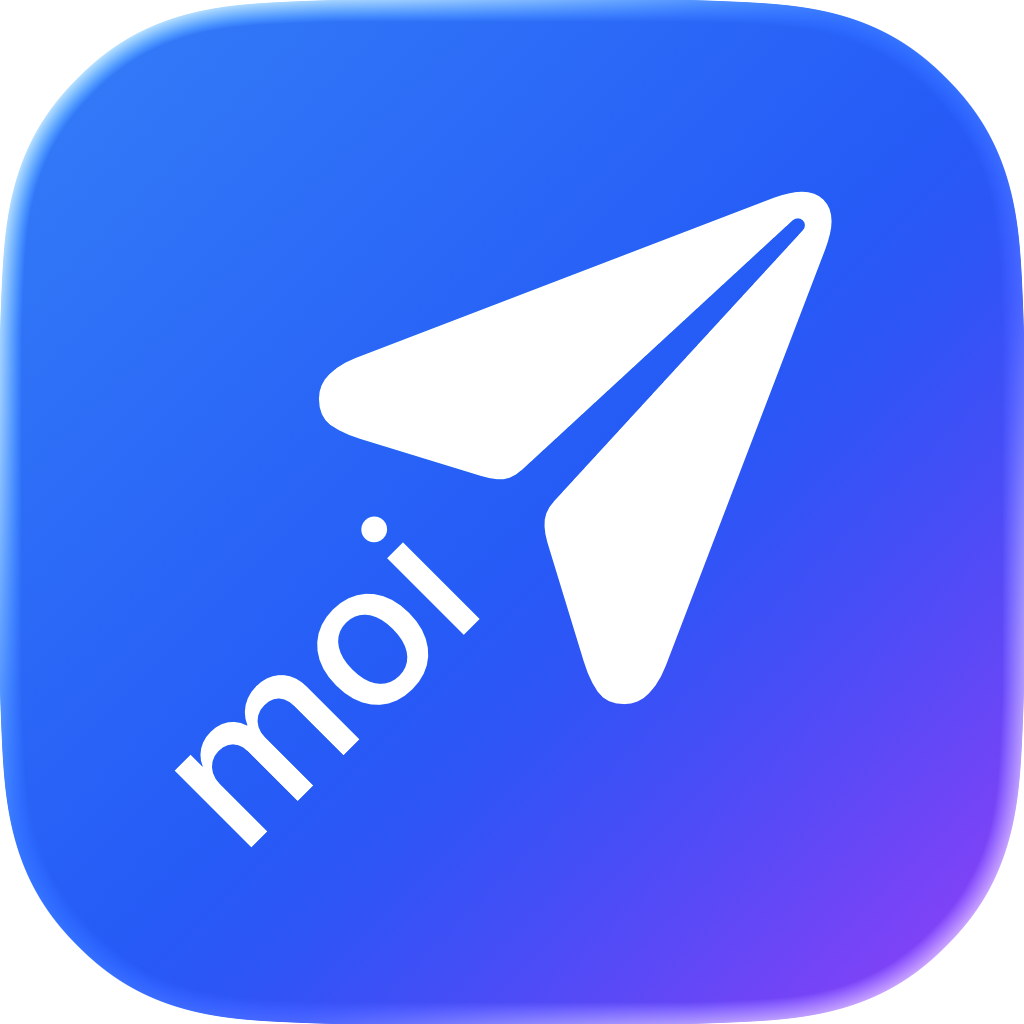
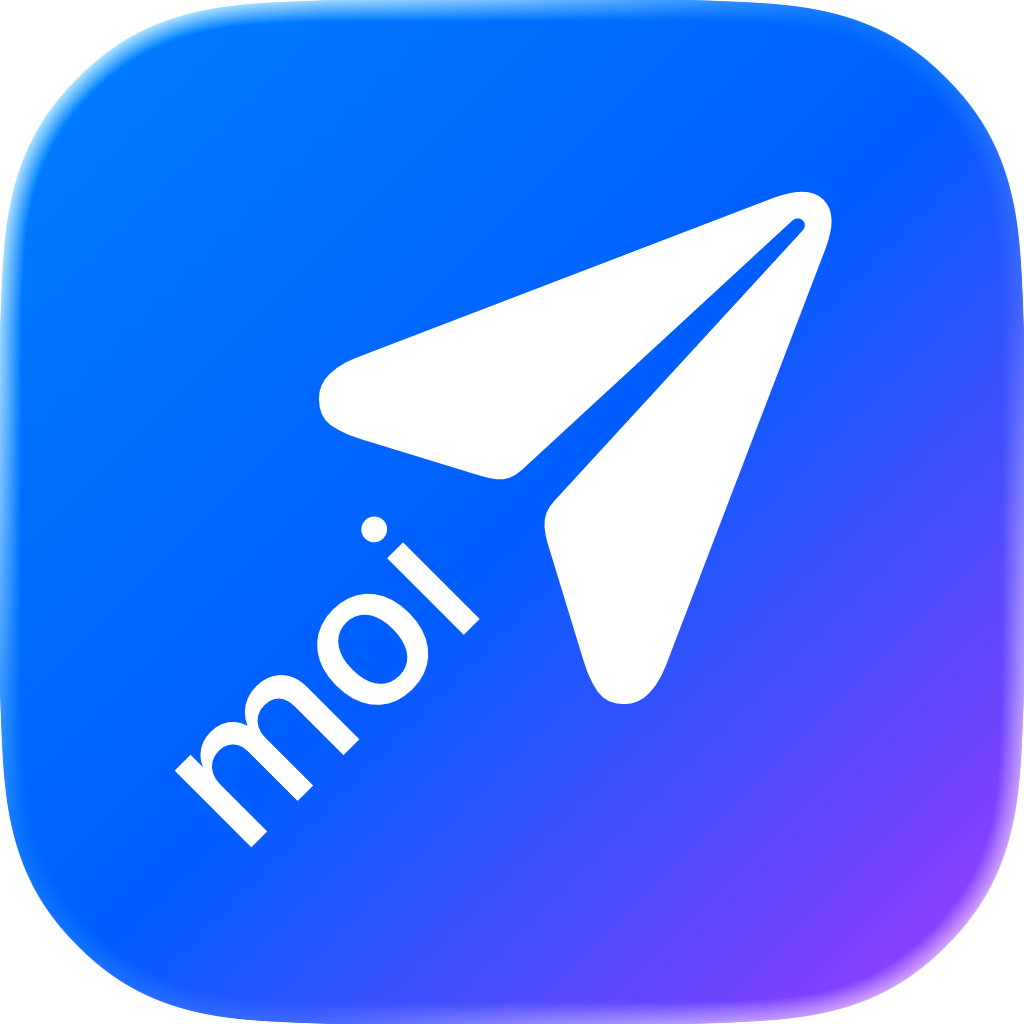
Restore AppIcon asset for App Store uploads

diff --git a/HANDOFF.md b/HANDOFF.md
@@ -39,7 +39,7 @@ Last updated: March 3, 2026
   - X/Twitter share text and Overcast links are normalized more aggressively before sending
   - shared X/Twitter links now prefer canonical tweet/content URLs, with an X oEmbed fallback for tweet previews when page metadata is weak
   - low-quality summaries are filtered more aggressively, and summaries are skipped for X/Twitter and Overcast sources
-  - the app now uses a branded `mail-moi.icon` Icon Composer asset as the only app icon source; the legacy `AppIcon.appiconset` was removed and Xcode no longer bundles every discovered icon set
+  - the project keeps the branded `mail-moi.icon` source asset, and the iOS app now also includes a restored `AppIcon.appiconset` with an opaque 1024x1024 icon for App Store Connect uploads
   - iOS startup now includes a short branded splash overlay in addition to the launch storyboard
   - the share extension processing state now says `Auto-Sending...` and exposes a small bordered `Edit` action that cancels auto-send and returns to the draft without changing the saved preference
 
@@ -54,7 +54,7 @@ Last updated: March 3, 2026
 5. Share a photo directly from Photos (without a URL) and confirm it can be queued, sent, and removed without leaving orphaned files in the App Group container.
 6. Share an X/Twitter post and an Overcast episode and confirm the title / source URL / summary behavior looks intentional rather than noisy.
 7. Run the macOS target and confirm the desktop card layout feels right at common window sizes, especially queue deletion and account disclosure behavior.
-8. Archive and upload a fresh build, then verify whether App Store Connect shows the `mail-moi` icon for the new build; if not, treat the missing thumbnail as an App Store Connect `.icon` rendering issue rather than a stale project asset.
+8. Archive and upload a fresh build, then verify whether App Store Connect shows the restored `AppIcon` thumbnail for the new iOS build.
 9. Confirm the next Xcode Cloud iOS upload succeeds with build number `2`; the previous failure was `The bundle version must be higher than the previously uploaded version.`
 
 ## Local Setup

diff --git a/README.md b/README.md
@@ -60,7 +60,7 @@ The current build is set up to ship through TestFlight.
 - Xcode Cloud is configured to start on pushes to `main`.
 - The active workflow archives both iOS and macOS builds.
 - Successful archives are prepared for `TestFlight (Internal Testing Only)`.
-- The app and share extension now use the branded `mail-moi` Icon Composer asset instead of the old generic app icon set.
+- The project keeps the branded `mail-moi.icon` source asset, and the iOS app now also includes a restored `AppIcon.appiconset` for App Store Connect-compatible uploads.
 
 That means a merge into `main` should automatically enqueue a new TestFlight build for the current internal testers.
 
